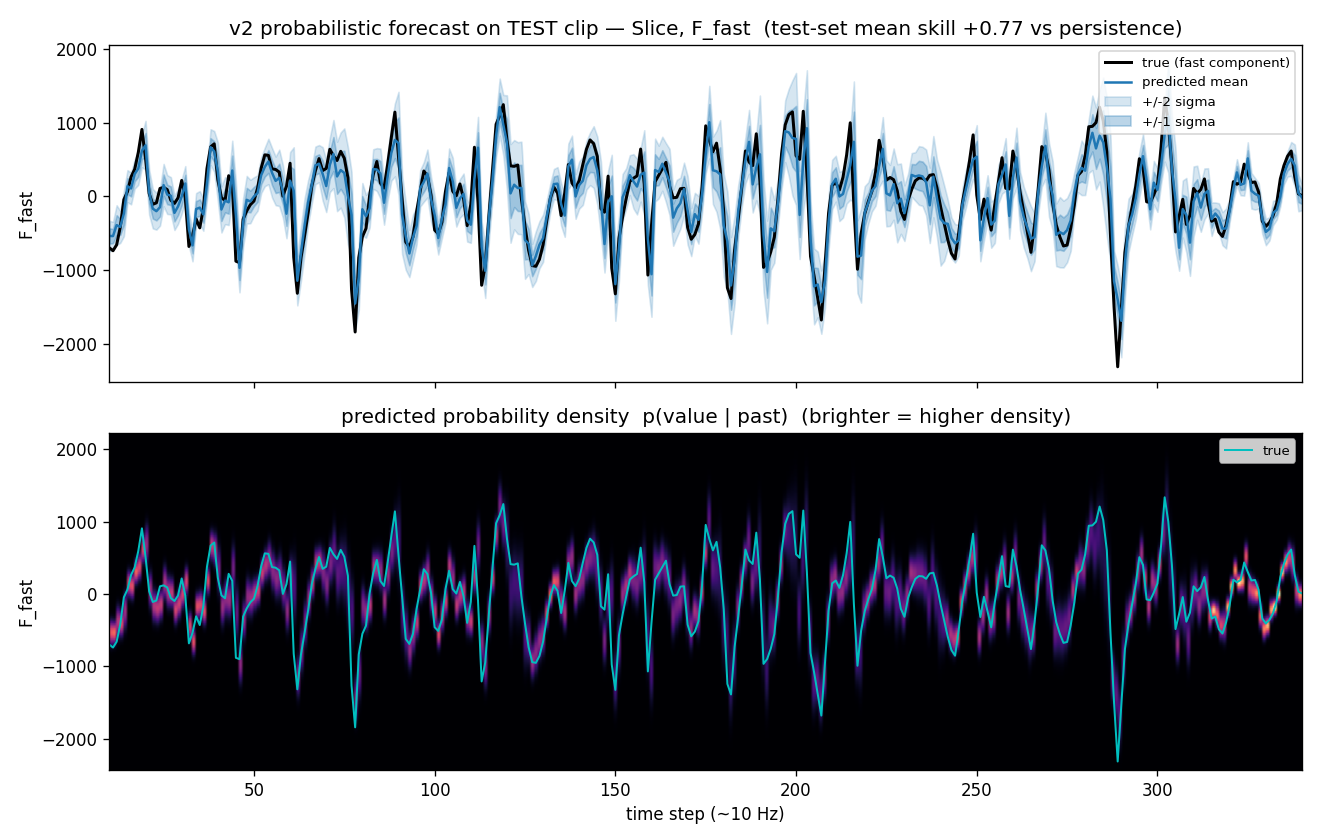
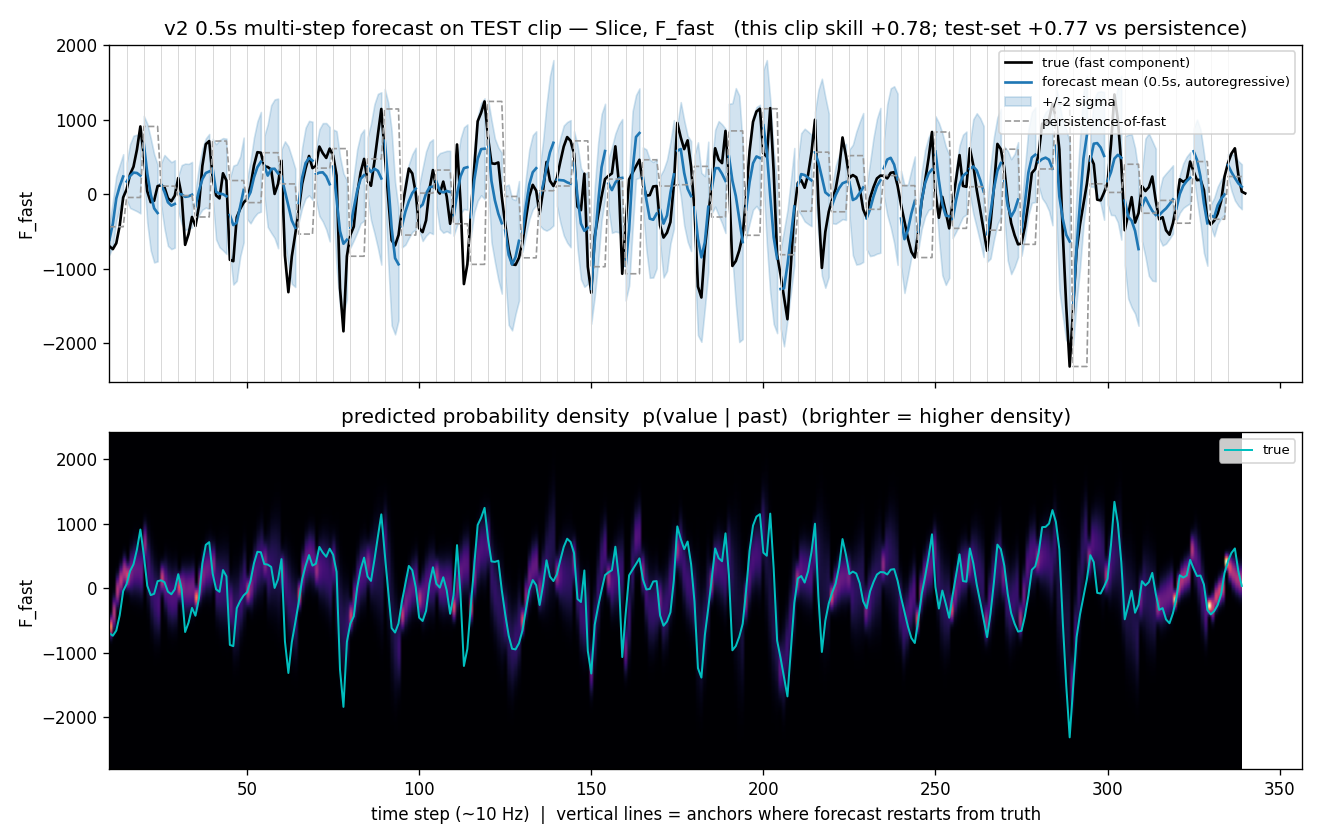
Fix misleading plot: honest multi-step autoregressive forecast + persistence baseline
The old plot was 1-step-ahead teacher-forced (re-seeded with truth every 0.1s) -> looked
artificially perfect. Now: at non-overlapping anchors, seed once with the true last frame
then roll t_out steps on the model's OWN predictions (the task the CV skill measures);
overlay persistence-of-fast. This-clip skill (+0.78) now matches test-set (+0.77).

diff --git a/scripts/plot_action_forecast.py b/scripts/plot_action_forecast.py
@@ -28,6 +28,7 @@ def main():
     ap.add_argument("--downsample", type=int, default=3)
     ap.add_argument("--cut", type=float, default=0.4)
     ap.add_argument("--t-in", type=int, default=10)
+    ap.add_argument("--t-out", type=int, default=5, help="forecast horizon (5 = 0.5s at 10 Hz)")
     ap.add_argument("--hidden", type=int, default=48)
     ap.add_argument("--epochs", type=int, default=80)
     ap.add_argument("--out", default="docs/action_forecast_density.png")
@@ -76,7 +77,7 @@ def main():
             return torch.stack(mus, 1), torch.stack(lvs, 1)
 
     # windows from training clips, normalize
-    X, A, Yin, Y, G = windows(train, args.t_in, 5, 2)
+    X, A, Yin, Y, G = windows(train, args.t_in, args.t_out, 2)
     mu_x = X.reshape(-1, X.shape[-1]).mean(0); sd_x = X.reshape(-1, X.shape[-1]).std(0) + 1e-6
     mu_y = Y.reshape(-1, 3).mean(0); sd_y = Y.reshape(-1, 3).std(0) + 1e-6
     Xn = ((X - mu_x) / sd_x).astype(np.float32)
@@ -91,63 +92,72 @@ def main():
         perm = torch.randperm(len(xt))
         for i in range(0, len(xt), 64):
             b = perm[i:i + 64]; opt.zero_grad()
-            mu, lv = model(xt[b], at[b], yl[b], 5)
+            mu, lv = model(xt[b], at[b], yl[b], args.t_out)
             (0.5 * (lv + (yt[b] - mu) ** 2 * torch.exp(-lv)).mean()).backward()
             opt.step()
 
     # --- TEST-set skill (all held-out clips) vs persistence-of-fast ---
     model.eval()
-    Xte, Ate, Yin_te, Yte, _ = windows(test, args.t_in, 5, 2)
+    Xte, Ate, Yin_te, Yte, _ = windows(test, args.t_in, args.t_out, 2)
     with torch.no_grad():
         mu_te, _ = model(torch.tensor(((Xte - mu_x) / sd_x).astype(np.float32)),
                          torch.tensor(Ate),
-                         torch.tensor(((Yin_te[:, -1] - mu_y) / sd_y).astype(np.float32)), 5)
+                         torch.tensor(((Yin_te[:, -1] - mu_y) / sd_y).astype(np.float32)), args.t_out)
         mu_te = mu_te.numpy() * sd_y + mu_y
-    persist_te = np.repeat(Yin_te[:, -1:], 5, 1)
+    persist_te = np.repeat(Yin_te[:, -1:], args.t_out, 1)
     sk_te = 1 - ((mu_te - Yte) ** 2).mean((0, 1)) / (((persist_te - Yte) ** 2).mean((0, 1)) + 1e-12)
     print(f"TEST-set skill vs persistence: {sk_te.mean():+.3f}  (per target {np.round(sk_te,2)})")
 
-    # rolling 1-step-ahead forecast across the visualized TEST clip
+    # HONEST multi-step forecast: at non-overlapping anchors, seed with the true last observed
+    # frame then roll t_out steps forward AUTOREGRESSIVELY (model feeds its OWN predictions).
+    # This is exactly the task the +CV skill measures. Persistence = repeat the last true value.
+    k = args.target
     fn = (vfeat - mu_x) / sd_x
-    tn = (vtarg - mu_y) / sd_y
-    ts, mus, sds, trues = [], [], [], []
+    ho = args.t_out
+    seg_t, seg_mu, seg_sd, seg_pers = [], [], [], []
     with torch.no_grad():
-        for t in range(args.t_in, vfeat.shape[0]):
-            x = torch.tensor(fn[t - args.t_in:t][None], dtype=torch.float32)
-            yl1 = torch.tensor(tn[t - 1][None], dtype=torch.float32)
-            mu, lv = model(x, torch.tensor([vaid]), yl1, 1)
-            k = args.target
-            mus.append(float(mu[0, 0, k]) * sd_y[k] + mu_y[k])
-            sds.append(float(np.exp(0.5 * lv[0, 0, k].item())) * sd_y[k])
-            trues.append(float(vtarg[t, k])); ts.append(t)
-    ts = np.array(ts); mus = np.array(mus); sds = np.array(sds); trues = np.array(trues)
+        for a in range(args.t_in, vfeat.shape[0] - ho, ho):     # non-overlapping anchors
+            x = torch.tensor(fn[a - args.t_in:a][None], dtype=torch.float32)
+            y_last = torch.tensor(((vtarg[a - 1] - mu_y) / sd_y)[None], dtype=torch.float32)
+            mu, lv = model(x, torch.tensor([vaid]), y_last, ho)   # ho-step autoregressive rollout
+            seg_t.append(np.arange(a, a + ho))
+            seg_mu.append(mu[0, :, k].numpy() * sd_y[k] + mu_y[k])
+            seg_sd.append(np.exp(0.5 * lv[0, :, k].numpy()) * sd_y[k])
+            seg_pers.append(np.full(ho, vtarg[a - 1, k]))         # persistence-of-fast
+    ts = np.concatenate(seg_t); mus = np.concatenate(seg_mu)
+    sds = np.concatenate(seg_sd); pers = np.concatenate(seg_pers)
+    trues = vtarg[ts, k]
+    sk_clip = 1 - np.mean((mus - trues) ** 2) / (np.mean((pers - trues) ** 2) + 1e-12)
 
-    # figure: band + density heatmap
     fig, (ax1, ax2) = plt.subplots(2, 1, figsize=(11, 7), sharex=True)
-    ax1.plot(ts, trues, "k-", lw=1.8, label="true (fast component)")
-    ax1.plot(ts, mus, "C0-", lw=1.5, label="predicted mean")
-    ax1.fill_between(ts, mus - 2 * sds, mus + 2 * sds, color="C0", alpha=0.18, label="+/-2 sigma")
-    ax1.fill_between(ts, mus - sds, mus + sds, color="C0", alpha=0.30, label="+/-1 sigma")
+    tt = np.arange(args.t_in, vfeat.shape[0])
+    ax1.plot(tt, vtarg[tt, k], "k-", lw=1.6, label="true (fast component)")
+    for i, seg in enumerate(seg_t):                              # each 0.5s forecast segment
+        lab = dict(label="forecast mean (%.1fs, autoregressive)" % (ho / 10)) if i == 0 else {}
+        ax1.plot(seg, seg_mu[i], "C0-", lw=1.6, **lab)
+        ax1.fill_between(seg, seg_mu[i] - 2 * seg_sd[i], seg_mu[i] + 2 * seg_sd[i], color="C0", alpha=0.20,
+                         **(dict(label="+/-2 sigma") if i == 0 else {}))
+    ax1.plot(ts, pers, color="0.6", ls="--", lw=1.0, label="persistence-of-fast")
+    for a in [s[0] for s in seg_t]:
+        ax1.axvline(a, color="0.85", lw=0.6)
     ax1.set_ylabel(f"{TGT}"); ax1.legend(loc="upper right", fontsize=8)
-    ax1.set_title(f"v2 probabilistic forecast on TEST clip — {args.viz_action}, {TGT}  "
-                  f"(test-set mean skill {sk_te.mean():+.2f} vs persistence)")
+    ax1.set_title(f"v2 {ho/10:.1f}s multi-step forecast on TEST clip — {args.viz_action}, {TGT}   "
+                  f"(this clip skill {sk_clip:+.2f}; test-set {sk_te.mean():+.2f} vs persistence)")
 
-    # density map: Gaussian pdf per time column
     lo = float(min((mus - 3 * sds).min(), trues.min()))
     hi = float(max((mus + 3 * sds).max(), trues.max()))
     grid = np.linspace(lo, hi, 200)
     dens = np.exp(-0.5 * ((grid[:, None] - mus[None, :]) / sds[None, :]) ** 2) / (sds[None, :] * np.sqrt(2 * np.pi))
-    ax2.imshow(dens, origin="lower", aspect="auto",
-               extent=[ts[0], ts[-1], lo, hi], cmap="magma")
+    ax2.imshow(dens, origin="lower", aspect="auto", extent=[ts[0], ts[-1], lo, hi], cmap="magma")
     ax2.plot(ts, trues, "c-", lw=1.2, label="true")
-    ax2.set_xlabel("time step (~10 Hz)"); ax2.set_ylabel(f"{TGT}")
+    ax2.set_xlabel("time step (~10 Hz)  |  vertical lines = anchors where forecast restarts from truth")
+    ax2.set_ylabel(f"{TGT}"); ax2.legend(loc="upper right", fontsize=8)
     ax2.set_title("predicted probability density  p(value | past)  (brighter = higher density)")
-    ax2.legend(loc="upper right", fontsize=8)
     fig.tight_layout()
     os.makedirs(os.path.dirname(args.out), exist_ok=True)
     fig.savefig(args.out, dpi=120)
     covered = np.mean(np.abs(trues - mus) <= 2 * sds)
-    print(f"[done] {args.out}  (this clip: {covered*100:.0f}% of true within +/-2 sigma)")
+    print(f"[done] {args.out}  (this clip skill={sk_clip:+.2f}, {covered*100:.0f}% within +/-2 sigma)")
 
 
 if __name__ == "__main__":